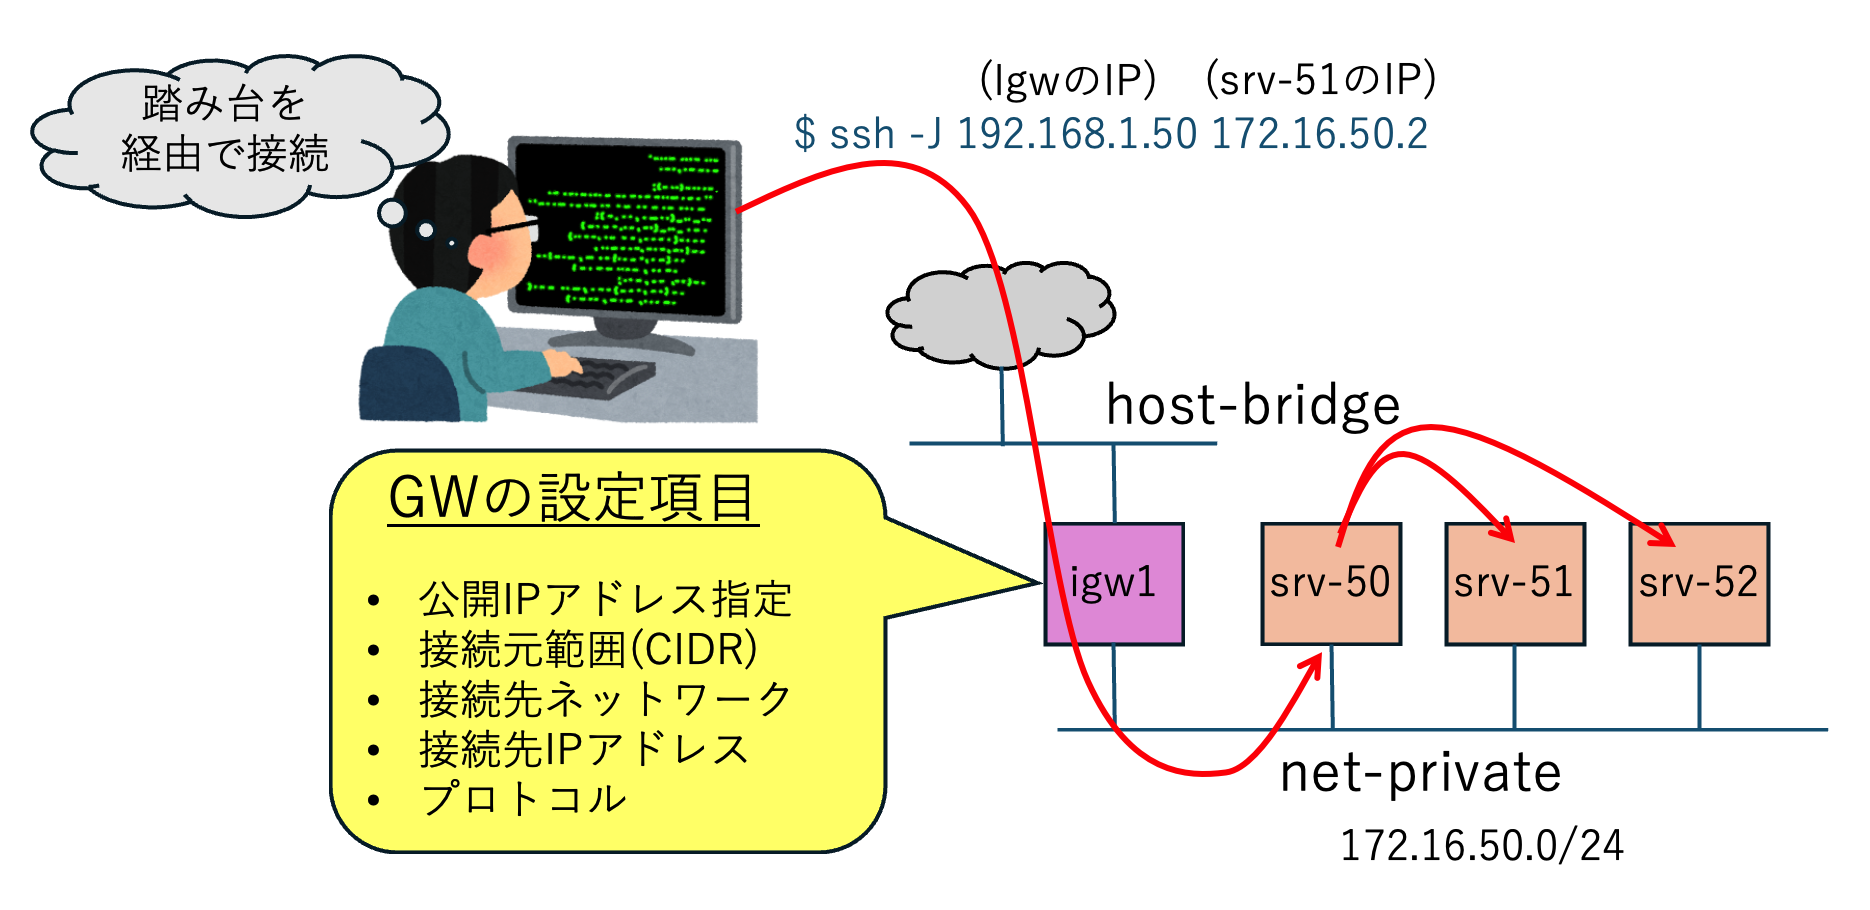
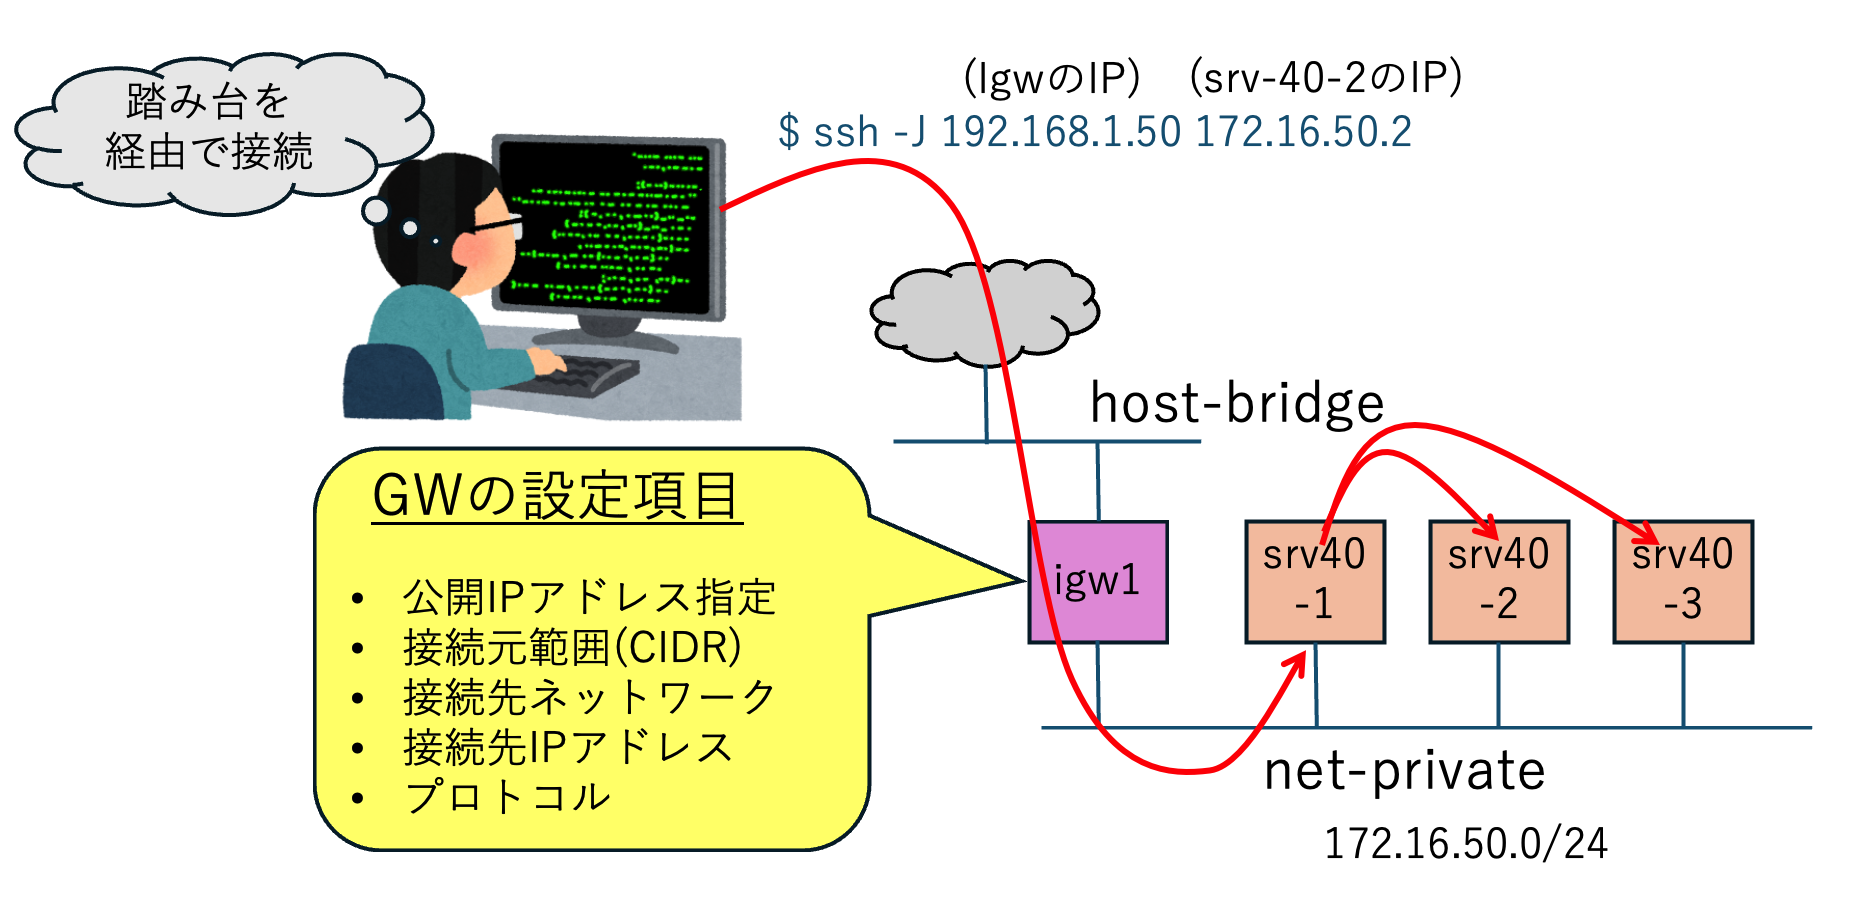
図の差し替えと記述の追加

diff --git a/04_server-on-private-network/README.md b/04_server-on-private-network/README.md
@@ -102,3 +102,41 @@ applicable law.
 ubuntu@srv04-1:~$ hostname
 srv04-1
 ```
+
+
+踏み台サーバー経由で、プライベートネットワークのサーバーにアクセスするには、`ssh -J 踏み台IP ターゲットIP`とします。
+```bash
+$ ssh -J 192.168.1.180 172.16.50.2
+Welcome to Ubuntu 24.04.5 LTS (GNU/Linux 6.8.0-139-generic x86_64)
+
+ * Documentation:  https://help.ubuntu.com
+ * Management:     https://landscape.canonical.com
+ * Support:        https://ubuntu.com/pro
+
+ System information as of Wed Sep 23 07:33:49 UTC 2026
+
+  System load: 0.0                Memory usage: 17%   Processes:       127
+  Usage of /:  11.1% of 14.46GB   Swap usage:   0%    Users logged in: 0
+
+Expanded Security Maintenance for Applications is not enabled.
+
+0 updates can be applied immediately.
+
+Enable ESM Apps to receive additional future security updates.
+See https://ubuntu.com/esm or run: sudo pro status
+
+
+The list of available updates is more than a week old.
+To check for new updates run: sudo apt update
+
+
+The programs included with the Ubuntu system are free software;
+the exact distribution terms for each program are described in the
+individual files in /usr/share/doc/*/copyright.
+
+Ubuntu comes with ABSOLUTELY NO WARRANTY, to the extent permitted by
+applicable law.
+
+ubuntu@srv04-2:~$ hostname
+srv04-2
+```
